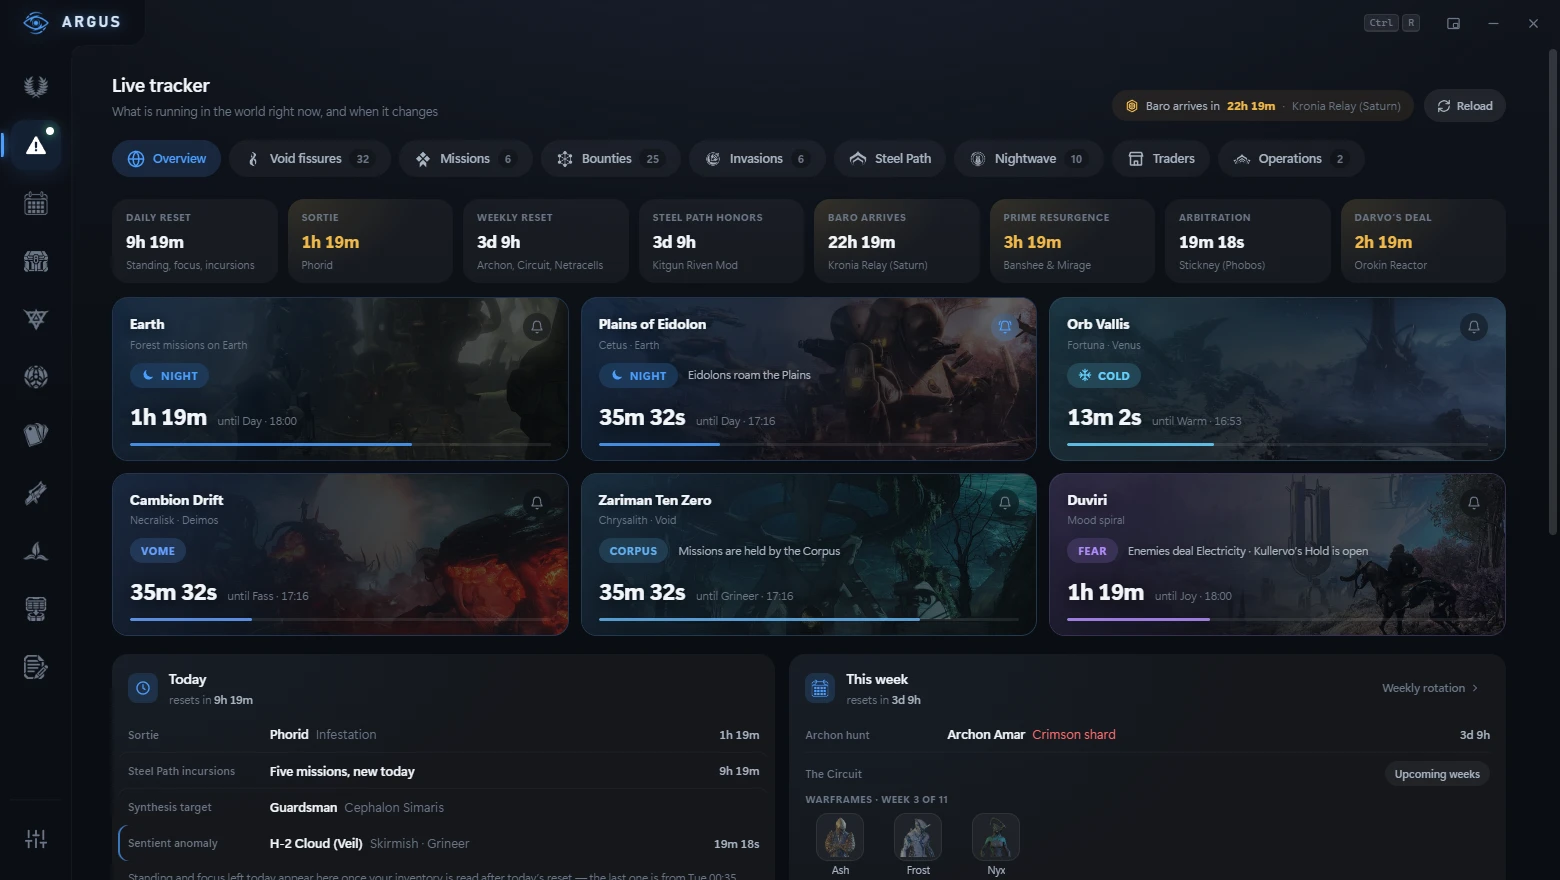
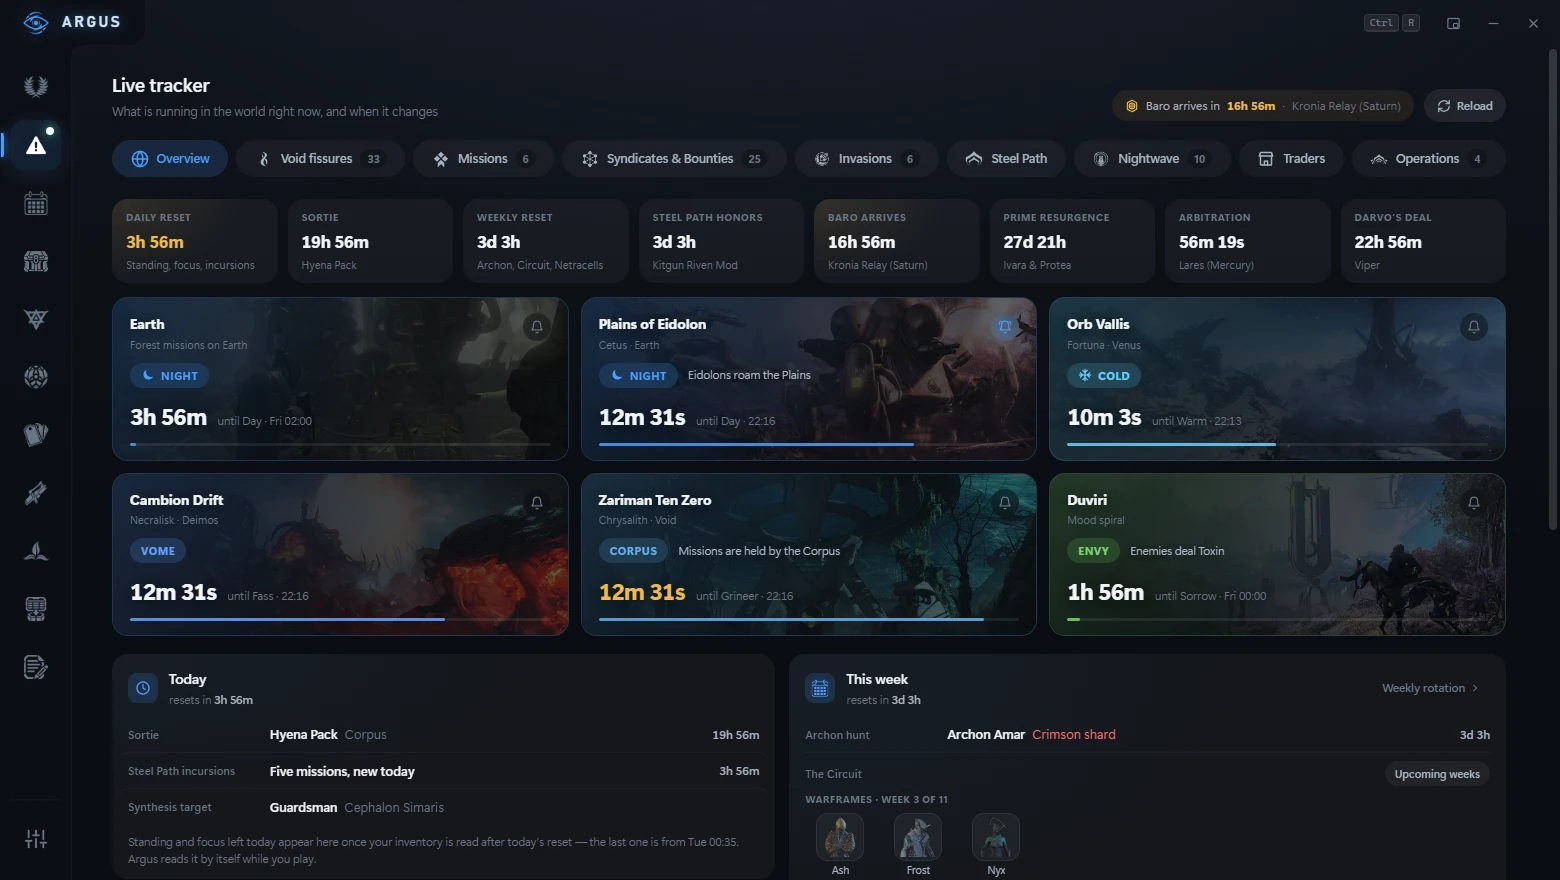
README: Live-Tracker-Bilder neu, mit voller Reiterleiste
Alle elf Ansichten des Live-Trackers neu aufgenommen: die Reiterleiste reicht
jetzt bis zum rechten Rand, Steel Path und Void Storms tragen ihren Schein
statt einer Kante, und "Syndicates & Bounties" zeigt die Syndikatsmissionen
oben. Die Bildunterschrift dazu heisst entsprechend.

Die Risse stammen aus dem Abzug von heute Mittag - die Quelle hing beim
Aufnehmen fast zwei Stunden hinterher und lieferte nur noch einen.

diff --git a/README.md b/README.md
@@ -241,7 +241,7 @@ Each tab of the window, with a screenshot of every view in it. Click one to open
 
 ![Live tracker: missions](docs/img/ws-missions.webp)
 
-**Bounties** — every bounty board; a click shows what each stage pays out, at the rotation it is on
+**Syndicates & bounties** — today's syndicate missions on top, then every bounty board; a click shows what each stage pays out, at the rotation it is on
 
 ![Live tracker: bounties](docs/img/ws-bounties.webp)
 
